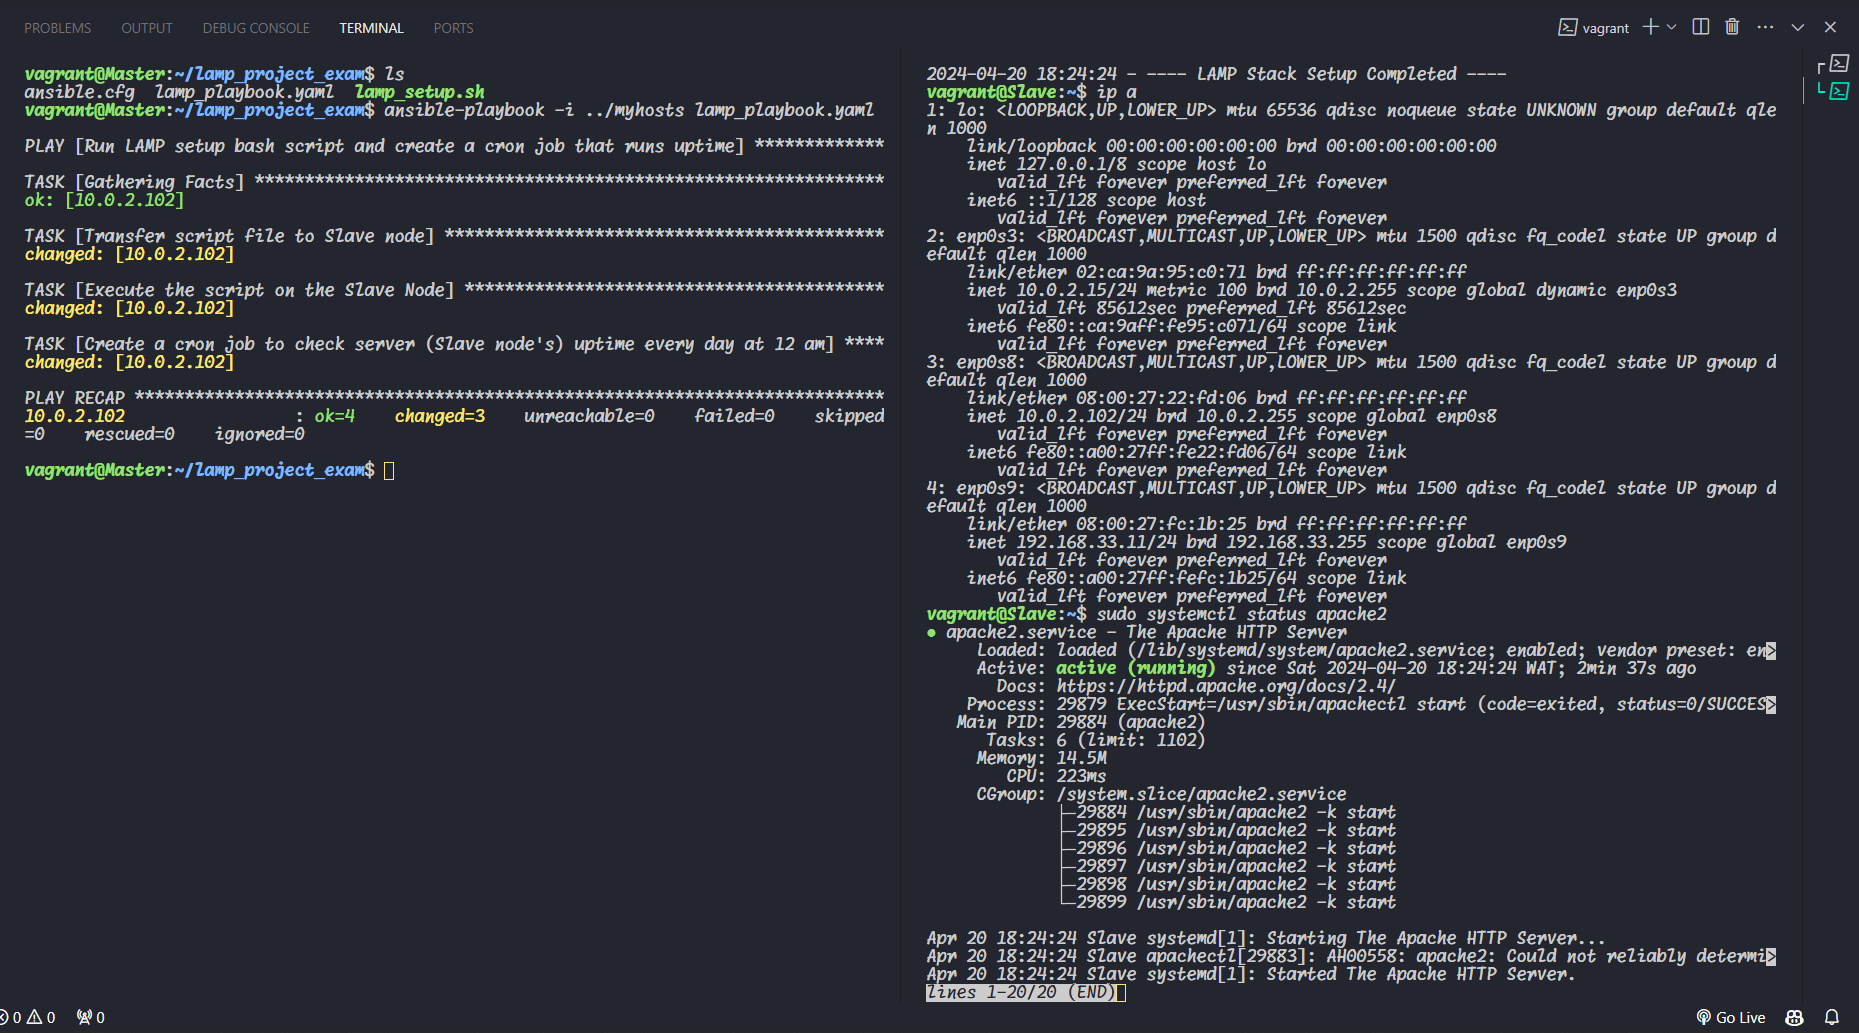
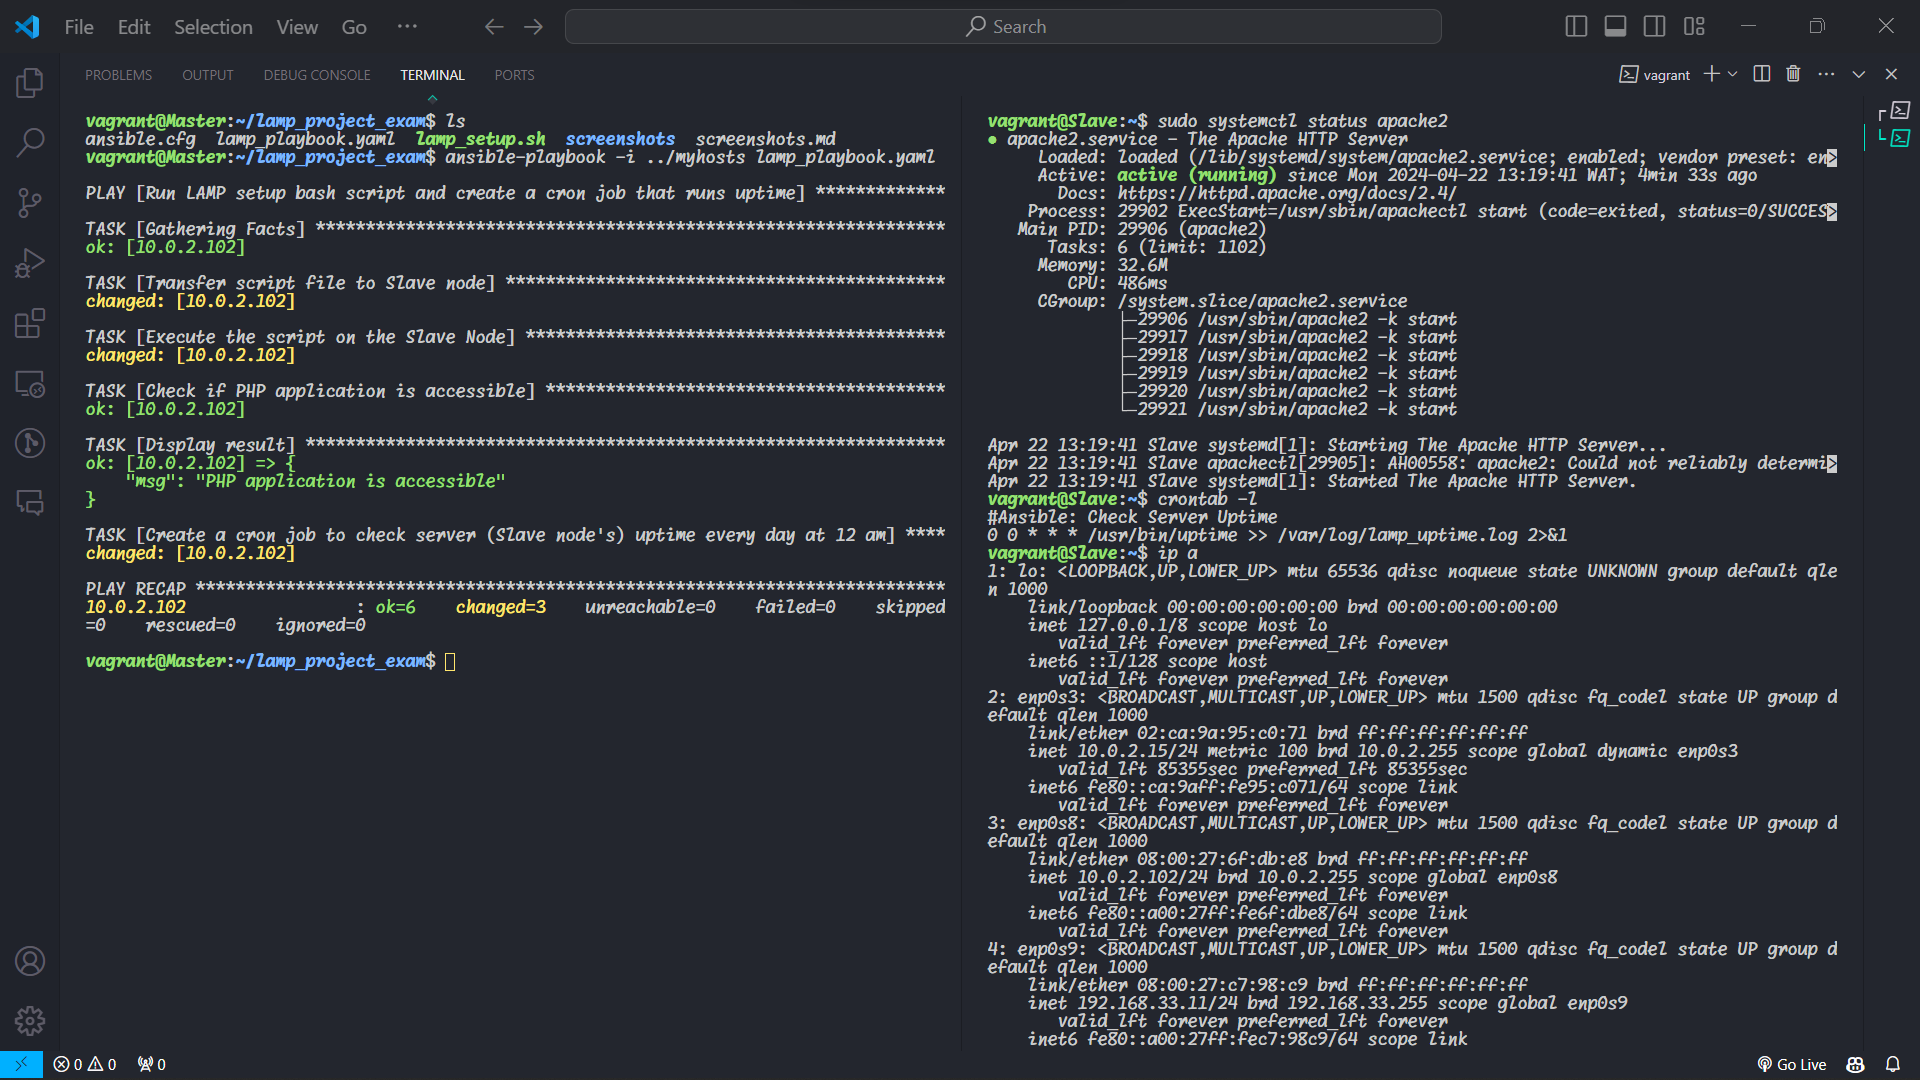
Updated screenshots and screenshots.md file. Edited the tee command syntax in the script

diff --git a/screenshots.md b/screenshots.md
@@ -1,20 +1,20 @@
 # Screenshots
 
-### Screenshot of Ansible Playbook running on Master node and newly created log file on Slave node
+### Screenshot of Ansible Playbook running on Master node (left) and newly created lamp deployment progress log file on Slave node (right)
 
 ![Screenshot 1](./screenshots/Screenshot-1.png)
 
-### Screenshot of Apache running on Slave Node
+### Screenshot of Apache running on Slave Node, newly created cronjob and ip address details (right terminal)
 
 ![Screenshot 2](./screenshots/Screenshot-2.png)
 
 ### Proof of Laravel's accessibility through the Slave node's IP address
 
-![Screenshot 3](./screenshots/Screenshot-3.png)
+![Screenshot 3](./screenshots/Screenshot-4.png)
 
-### Screenshot of cronjob set by Ansible on the Slave node
+### Screenshot of custom ansible.cfg file on Master node (left terminal)
 
-![Screenshot 4](./screenshots/Screenshot-4.png)
+![Screenshot 4](./screenshots/Screenshot-3.png)
 
 ### Screenshot of Vagrantfile configurations
 
